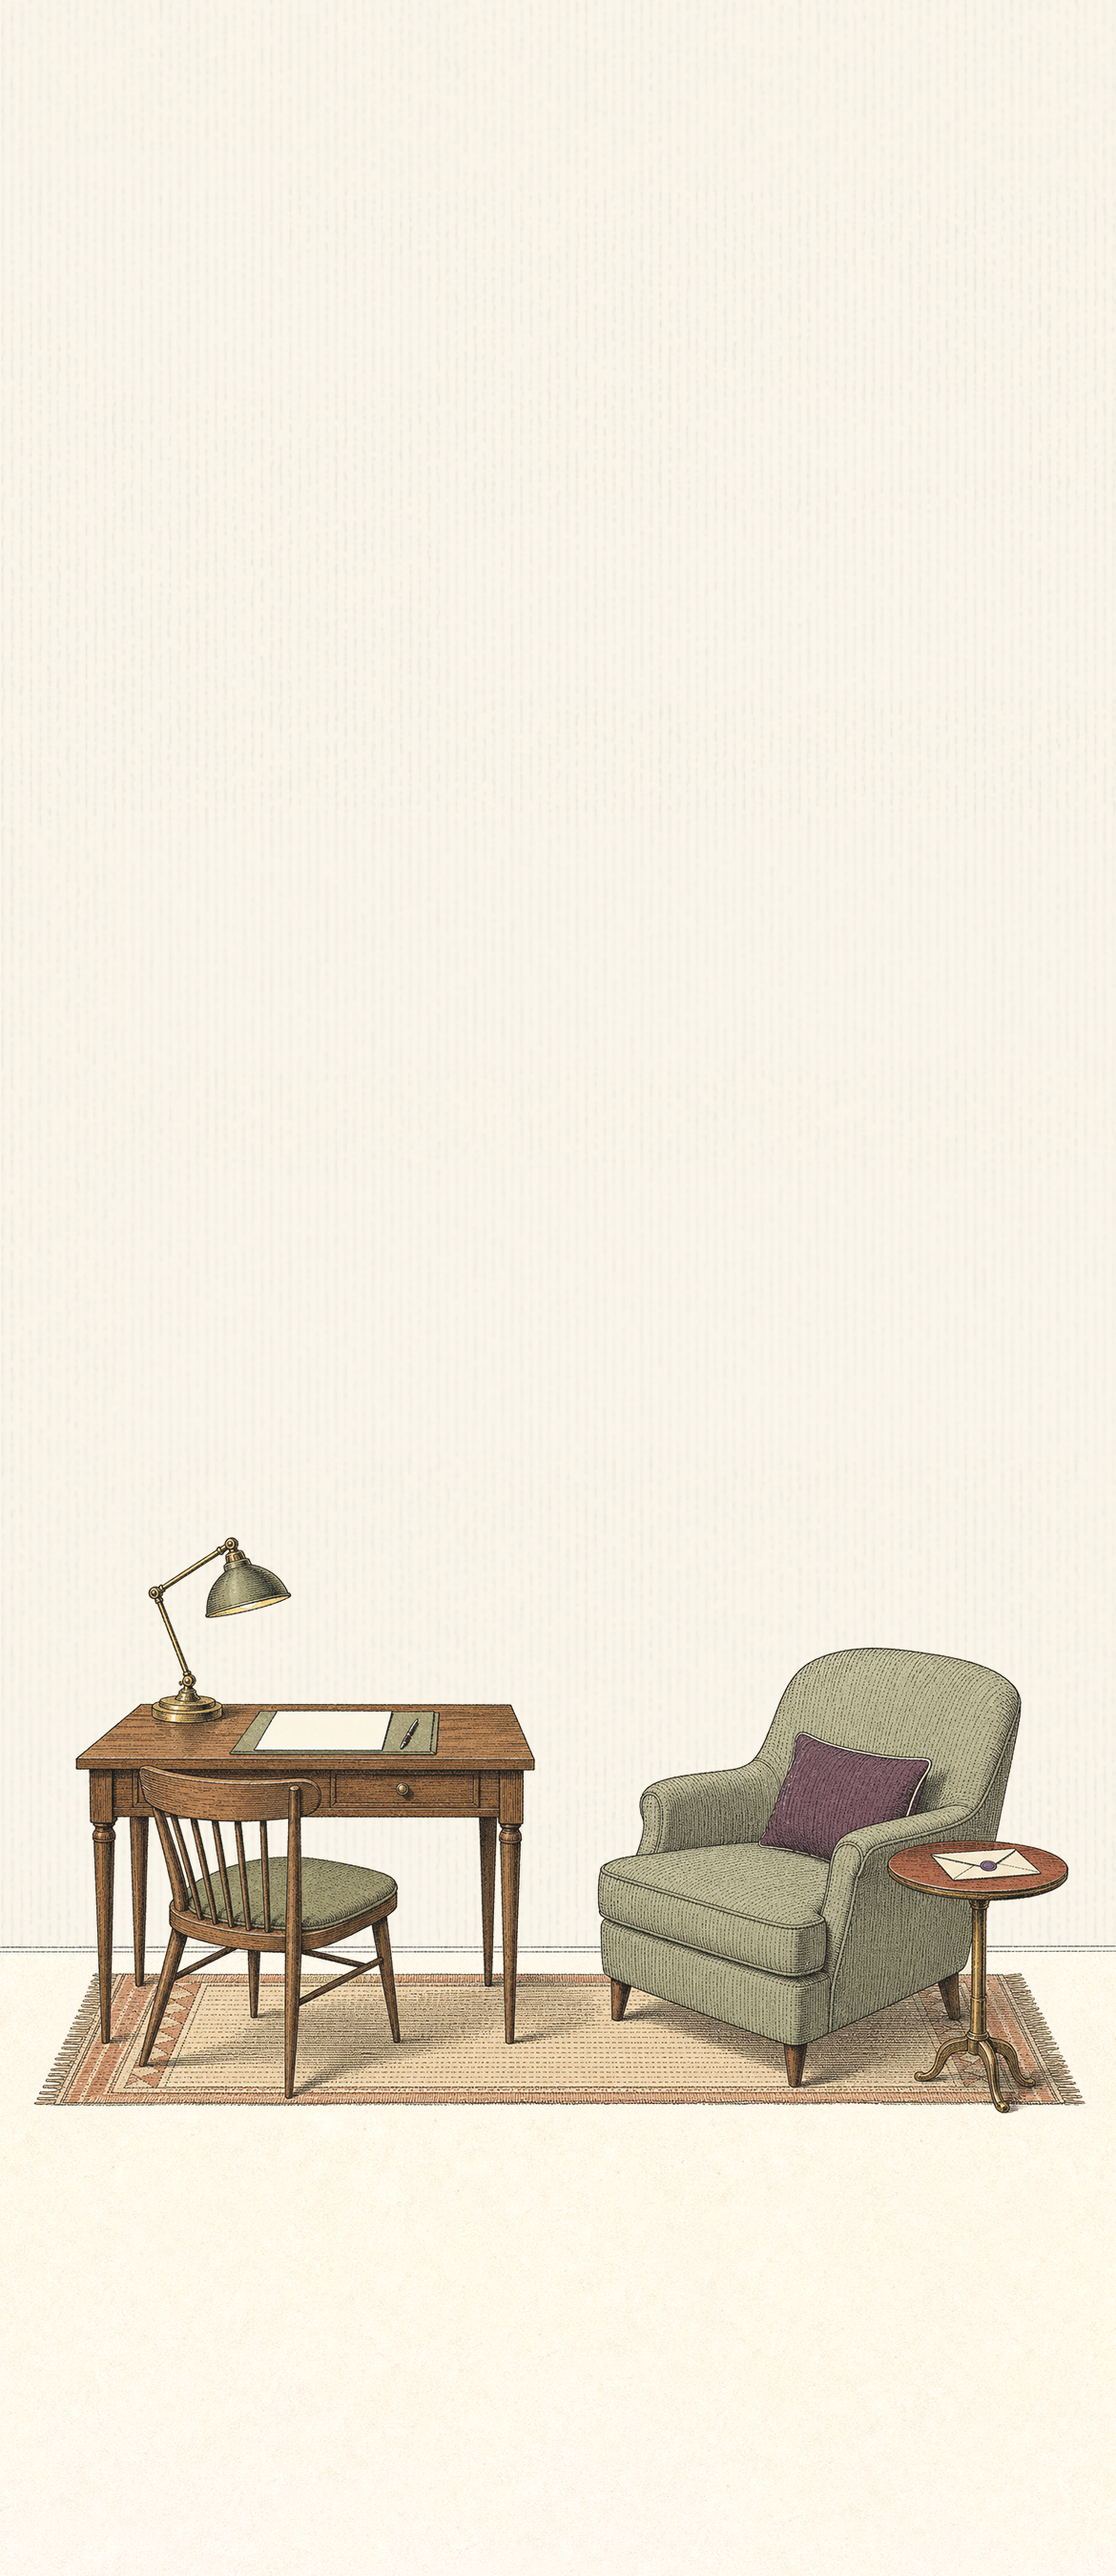
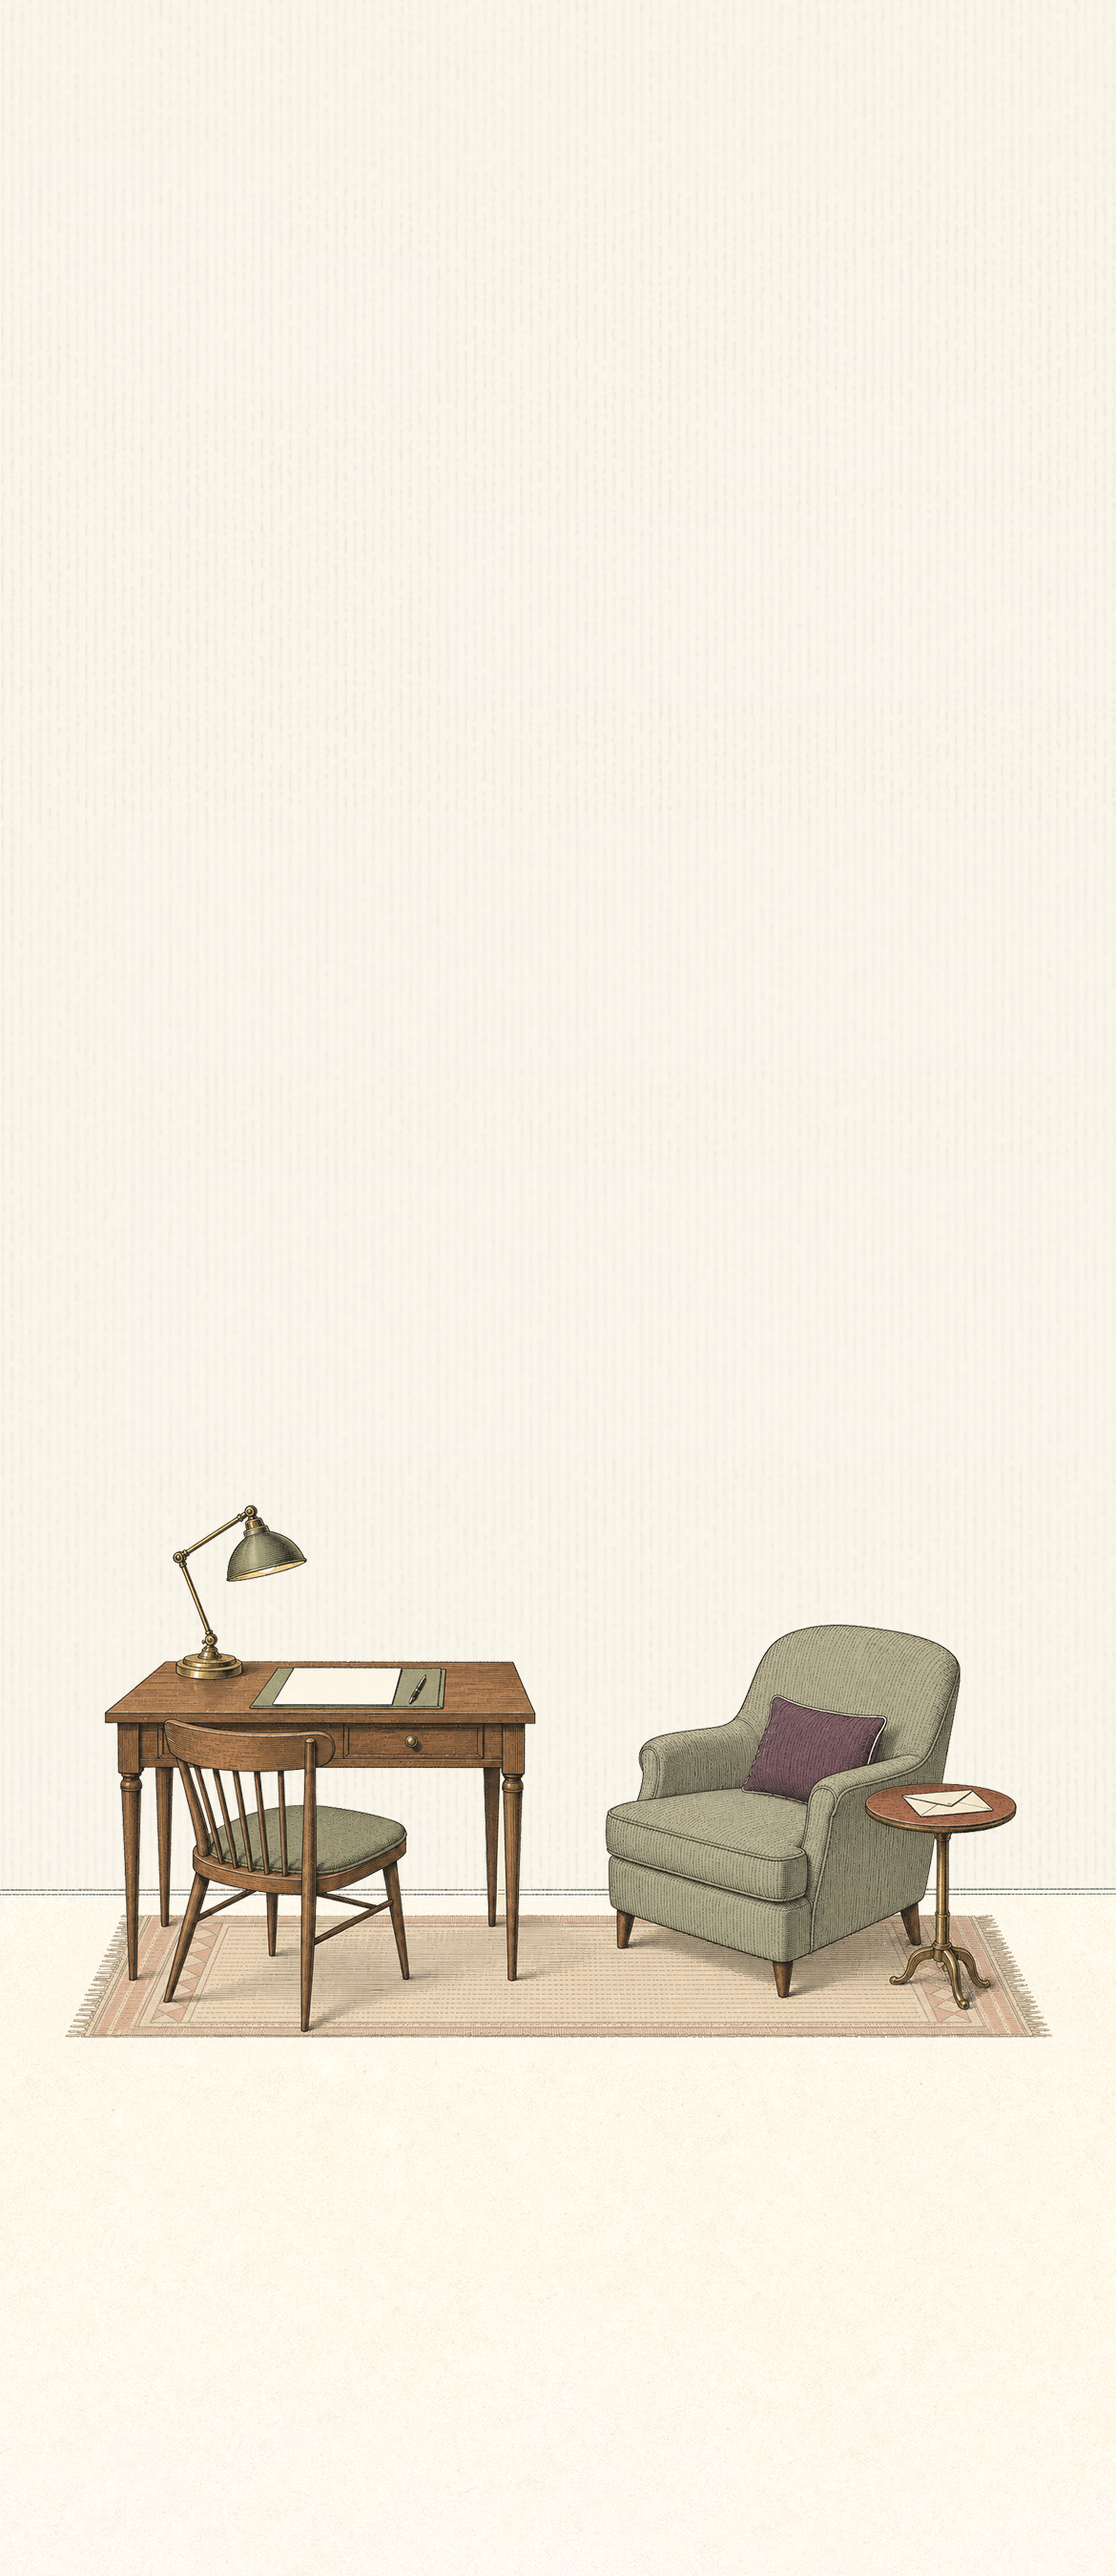
Refine home layout and report input

Changed region(s): [[0.0308, 0.5911, 0.9846, 0.84]]

diff --git a/src/HomeRuledRefinedScreen.module.css b/src/HomeRuledRefinedScreen.module.css
@@ -96,11 +96,15 @@
 
 /* Responsive card variant: copy, room and tagline share one scroll flow. */
 .cardsOnly.cardsOnly.cardsOnly {
-  --room-width: calc(min(100vw, 430px) * 1.2474);
+  /* 배경 가구와 하단 문구가 하나의 하단 영역으로 움직이는 기준값. */
+  --bottom-zone-shift: 0px;
+  /* 카드 높이가 큰 구간에서 가구와 문구를 함께 아래에 둘 보정값. */
+  --room-card-clearance: 0px;
+  --room-image-shift: calc(var(--bottom-zone-shift) - var(--room-card-clearance));
   background-color: #f8f4e8;
-  background-image: url("/assets/home-cards-room-03.jpg") !important;
-  background-size: var(--room-width) auto !important;
-  background-position: center bottom calc(var(--nav-h) + 49px - var(--room-width) * .4154);
+  background-image: url("/assets/home-cards-room-02.jpg") !important;
+  background-size: 100% auto !important;
+  background-position: center bottom var(--room-image-shift);
   background-repeat: no-repeat;
 }
 
@@ -175,7 +179,8 @@
 .cardsOnly .footer {
   display: flex;
   flex: none;
-  margin: auto -12px 30px;
+  /* 이미지와 같은 값을 써 카드 아래의 빈 공간을 함께 늘리고 줄인다. */
+  margin: auto -12px calc(30px + var(--bottom-zone-shift) - var(--room-card-clearance));
   padding: 0;
   font-size: 12px;
   gap: 7px;
@@ -232,9 +237,6 @@
 }
 
 @media (max-height: 740px) {
-  .cardsOnly.cardsOnly.cardsOnly {
-    --room-width: calc(min(100vw, max(140px, calc((100dvh - 460px) * 1.5))) * 1.2474);
-  }
   .cardsOnly .scroll.scroll { padding-top: 60px !important; padding-bottom: 16px !important; }
   .cardsOnly :global(.home-heading-helper) { margin-top: 10px !important; }
   .cardsOnly .choices { margin-top: 16px; }
@@ -243,13 +245,18 @@
   .cardsOnly .choice i { margin-top: 12px; }
 }
 
-/* Keep portrait spacing continuous as browser chrome changes the available height. */
+/* /home-backup과 같은 기준: 제목은 고정 헤더·안전 영역 아래에서 시작하고,
+   남는 간격만 실제 화면 높이에 맞춰 연속적으로 조절한다. */
 @media (orientation: portrait) {
+  /* 844px(iPhone 12 Pro)를 기준점으로 하단 영역 전체를 움직인다.
+     짧은 화면에서는 카드에서 멀어지도록 아래로, 긴 화면에서는 하단
+     문구와의 거리를 유지하도록 위로 이동한다. */
   .cardsOnly.cardsOnly.cardsOnly {
-    --room-width: calc(min(100vw, 430px, max(130px, calc((100dvh - 490px) * 1.35))) * 1.2474);
+    --bottom-zone-shift: clamp(-8px, calc((100dvh - 844px) * .136), 12px);
   }
+
   .cardsOnly .scroll.scroll {
-    padding-top: clamp(60px, calc(60px + (100dvh - 667px) * .09), 84px) !important;
+    padding-top: calc(var(--header-h) + env(safe-area-inset-top) + clamp(12px, 2.5dvh, 24px)) !important;
     padding-bottom: 20px !important;
   }
   .cardsOnly :global(.home-heading-helper) {
@@ -266,10 +273,28 @@
   .cardsOnly .choice i { margin-top: 14px; }
 }
 
-/* iPhone SE portrait-sized viewports, including the original 320px model. */
-@media (orientation: portrait) and (max-width: 375px) and (max-height: 667px) {
+/* iPhone 12/15 Pro 폭에서는 카드가 더 높아져 램프가 카드 하단선에 닿는다.
+   가구와 문구를 함께 21px 내려, 카드 여백과 러그 아래 문구 간격을 모두 유지한다. */
+@media (orientation: portrait) and (min-width: 377px) and (max-width: 414px) and (min-height: 780px) {
+  .cardsOnly.cardsOnly.cardsOnly {
+    --room-card-clearance: clamp(16px, 2.5dvh, 22px);
+  }
+}
+
+/* 짧은 화면에서는 하단 문구와 내비게이션 사이의 20px 내부 패딩에
+   4px만 더해, 시각적 간격을 정확히 24px으로 유지한다. */
+@media (orientation: portrait) and (max-height: 740px) {
   .cardsOnly .footer {
-    margin-bottom: 0;
+    margin-bottom: 4px;
+  }
+}
+
+/* iPhone SE portrait-sized viewports, including the original 320px model. */
+@media (orientation: portrait) and (max-width: 376px) and (max-height: 668px) {
+  /* SE에서는 원본 배경의 러그 끝점(표시 크기 기준)을 기준으로 문구까지
+     24px을 맞춘다. 문구·내비 간격은 그대로 두고 배경만 18px 더 내린다. */
+  .cardsOnly.cardsOnly.cardsOnly {
+    --room-image-shift: calc(var(--bottom-zone-shift) - 18px);
   }
 
   /* 공통 홈 제목 규칙이 번들 뒤쪽에서 로드되므로, 이 화면에만 한 단계 더
@@ -302,10 +327,6 @@
     margin-top: 16px;
   }
 
-  .cardsOnly.cardsOnly.cardsOnly {
-    --room-width: calc(min(100vw, 430px, max(130px, calc((100dvh - 490px) * 1.35))) * 1.7424);
-    background-position: center bottom calc(var(--nav-h) + 19px - var(--room-width) * .4154);
-  }
 }
 
 /* iPhone 15 Pro Max (430 × 932)처럼 넓고 긴 화면에서는 제목과 선택 영역의

diff --git a/src/styles/global.css b/src/styles/global.css
@@ -7429,7 +7429,10 @@ html[data-ios-standalone="true"] .intro-copy {
 .figma-report-screen fieldset label.is-selected span { color: var(--deep-plum); font-weight: 700; }
 .figma-report-detail { position: relative; margin-top: 20px; padding-top: 20px; border-top: 1px solid rgba(var(--gold-rgb), var(--a20)); }
 .figma-report-detail > label { display: block; margin-bottom: 20px; }
-.figma-report-detail textarea { box-sizing: border-box; width: 100%; height: 85px; padding: 12px; resize: vertical; border: 1px solid rgba(var(--gold-rgb), var(--a50)); border-radius: 0; outline: 0; background: rgba(var(--surface-card-rgb), var(--a50)); color: var(--ink); font: var(--fs-body-sm)/1.55 var(--font-sans); }
+/* iOS는 16px 미만의 입력 글자를 포커스할 때 페이지를 자동 확대한다.
+   신고 상세만 14px이라 확대된 visual viewport가 하단 액션 바까지 흔들었으므로,
+   다른 편지 작성 textarea와 같은 최소 입력 크기로 맞춘다. */
+.figma-report-detail textarea { box-sizing: border-box; width: 100%; height: 85px; padding: 12px; resize: vertical; border: 1px solid rgba(var(--gold-rgb), var(--a50)); border-radius: 0; outline: 0; background: rgba(var(--surface-card-rgb), var(--a50)); color: var(--ink); font: 400 16px/1.55 var(--font-sans); }
 .figma-report-detail textarea:focus { border-color: var(--deep-plum); }
 .figma-report-detail small { display: block; margin-top: 5px; color: var(--faint-ink); font-size: 12px; text-align: right; }
 .figma-report-setting { display: flex; gap: 12px; margin-top: 10px; padding: 14px; border: 1px solid rgba(var(--gold-rgb), var(--a20)); border-radius: 0; background: rgba(var(--surface-card-rgb), var(--a50)); cursor: pointer; }
@@ -8592,8 +8595,8 @@ html[data-ios-standalone="true"] .intro-copy {
 .home-screen .home-choice--primary {
   min-height: 0;
   height: clamp(280px, 42dvh, 360px);
-  /* ④ 카드 안 여백을 척도에 맞춘다 (15/12px → 20/16px) */
-  padding: 14px 16px var(--card-pad);   /* 윗여백만 14px — 01/02 를 올렸다 */
+  /* 카드 상단에 한 호흡을 더 주되, 좁은 두 칸의 읽기 폭은 그대로 보존한다. */
+  padding: 18px 16px var(--card-pad);
 }
 
 /* 좁은 화면(갤럭시 S24 360px 등)에서만 좌우 여백을 12px 로 줄인다.
@@ -8610,8 +8613,15 @@ html[data-ios-standalone="true"] .intro-copy {
   }
 }
 
-/* ③ 선택을 돕는 문장은 캡션이 아니라 본문 */
+/* ③ 선택을 돕는 문장은 캡션이 아니라 본문.
+   제목 → 보조문 → 화살표를 일정한 리듬으로 묶어, 두 카드가 독립된 행동으로 읽히게 한다. */
+.home-screen .home-choice-copy {
+  gap: 0;
+  margin-top: 14px;
+}
+
 .home-screen .home-choice-copy span {
+  margin-top: 13px;
   font-size: 13px;
   line-height: var(--lh-snug);
 }
@@ -8659,8 +8669,8 @@ html[data-ios-standalone="true"] .intro-copy {
   width: 100%;
   /* 카드가 커진 만큼 그림까지 커지면 글자와의 간격은 그대로다.
      위를 20px 비워 그림을 아래로 붙이고 글자와의 숫프를 만든다. */
-  margin-top: 20px;
-  height: calc(100% - 20px);
+  margin-top: 14px;
+  height: calc(100% - 14px);
   min-height: 0;
   align-self: end;
   object-fit: contain;

diff --git a/src/App.tsx b/src/App.tsx
@@ -437,7 +437,7 @@ export function App() {
     return <AuthGateRedirect to="/home" />;
   }
 
-  const protectedPaths = new Set(["/home", "/home-ruled", "/home-ruled-focus", "/home-scene", "/home-cards", "/home-horizontal-band", "/home-horizontal-frame", "/write-letter", "/listen-entry-a", "/waiting-letters", "/mailbox", "/my-space", "/saved-excerpts", "/received-replies", "/anonymous-name-settings", "/account-settings", "/login-information", "/data-and-privacy", "/account-withdrawal", "/notifications", "/notification-settings", "/safety-management", "/service-guide", "/safety-guide", "/privacy-policy", "/app-info", "/prototype/mailbox-list-lab", "/prototype/waiting-letters-list-lab", "/letter-safety-review"]);
+  const protectedPaths = new Set(["/home", "/home-backup", "/home-ruled", "/home-ruled-focus", "/home-scene", "/home-cards", "/home-horizontal-band", "/home-horizontal-frame", "/write-letter", "/listen-entry-a", "/waiting-letters", "/mailbox", "/my-space", "/saved-excerpts", "/received-replies", "/anonymous-name-settings", "/account-settings", "/login-information", "/data-and-privacy", "/account-withdrawal", "/notifications", "/notification-settings", "/safety-management", "/service-guide", "/safety-guide", "/privacy-policy", "/app-info", "/prototype/mailbox-list-lab", "/prototype/waiting-letters-list-lab", "/letter-safety-review"]);
   const protectedFlowPrefixes = ["/gratitude/", "/report-reply/", "/return-letter/", "/reply-safety-review/", "/reply-sending/", "/report-letter/", "/report-letter-figma/", "/report-letter-legacy/", "/read-letter/", "/assigned-letter/", "/assign-letter/", "/write-reply/", "/reply-review/", "/reply-sent/", "/letter-journey/", "/reply-arrived/", "/letter-withdrawn/", "/mailbox/my/", "/mailbox/replied/"];
   const isProtectedServicePath = protectedPaths.has(path) || ["/letter-preview", "/letter-sent", "/reader-promise", "/urgent-support"].includes(path) || protectedFlowPrefixes.some((prefix) => path.startsWith(prefix));
   if ((isProtectedServicePath || path === "/home-ruled-refined" || path === "/home-ruled-refined-cards") && !isMockAuthenticated()) {
@@ -457,7 +457,8 @@ export function App() {
   if (path === "/home-ruled-focus") return <HomeRuledFocusScreen />;
   if (path === "/home-horizontal-band") return <HomeHorizontalBandScreen />;
   if (path === "/home-horizontal-frame") return <HomeHorizontalFrameScreen />;
-  if (path === "/home") return <HomeScreen />;
+  if (path === "/home-backup") return <HomeScreen />;
+  if (path === "/home") return <HomeRuledScreen refinedCardsOnly />;
   if (path === "/my-space") return <MySpaceScreen />;
   if (path === "/saved-excerpts") return <SavedExcerptsScreen />;
   if (path === "/received-replies") return <ReceivedRepliesScreen />;
